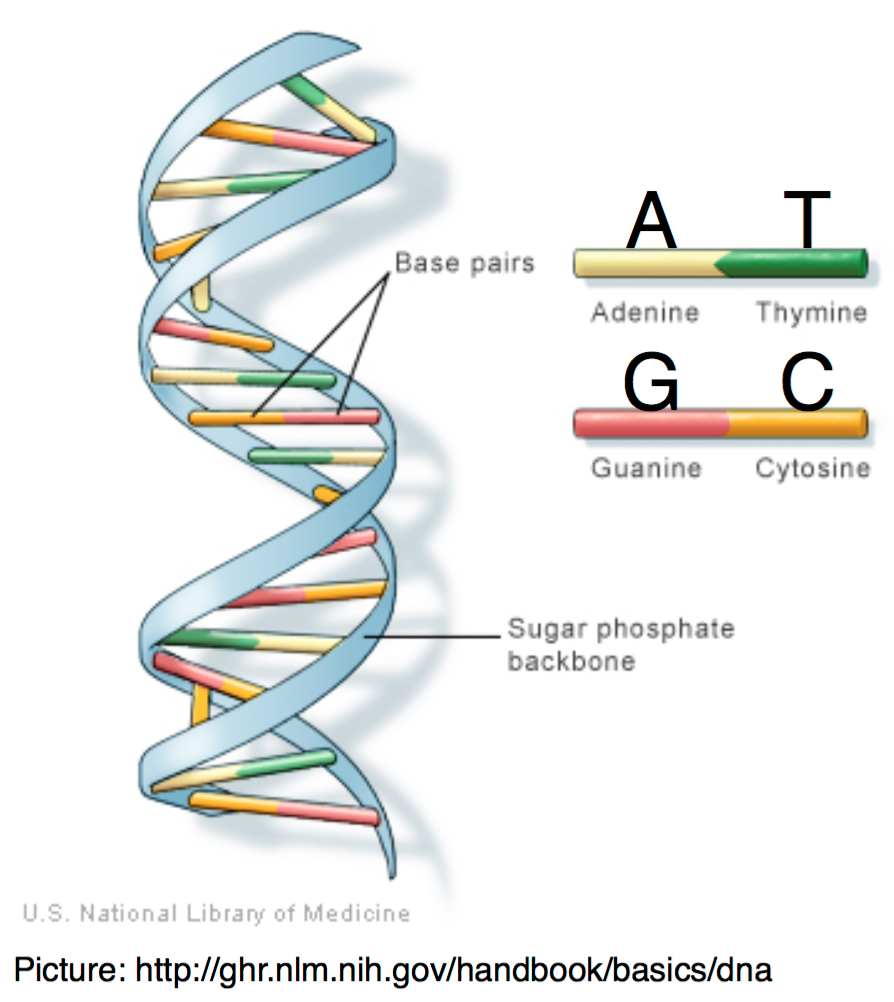
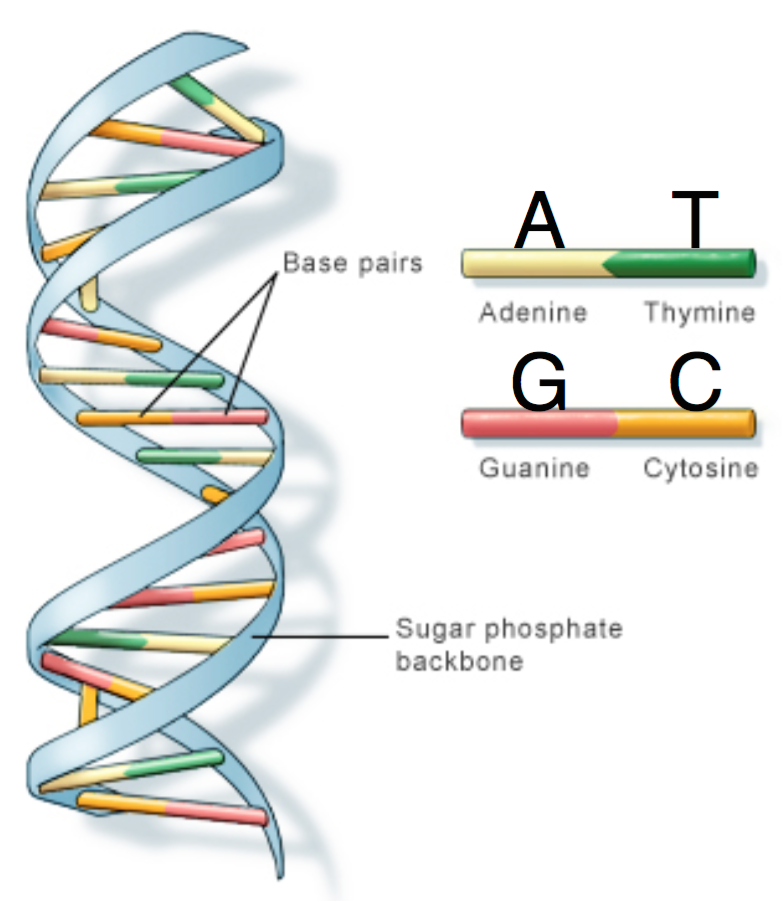
cleaned up mitosis and DNA figures

diff --git a/lectures/lecture2.md b/lectures/lecture2.md
@@ -75,8 +75,8 @@ pairs are known as _complementary pairs_. The structure of DNA is shown
 below.
 
 <div class="fig figcenter fighighlight">
-  <img src="/assets/lecture2/Figure2_DNADoubleHelix.png" width="75%">
-  <div class="figcaption">The DNA double-helix.</div>
+  <img src="/assets/lecture2/Figure2_DNADoubleHelix.png" width="40%">
+  <div class="figcaption">The DNA double-helix. Borrowed from the [Genetics Home Reference](http://ghr.nlm.nih.gov/handbook/basics/dna). </div>
 </div>
 
 A DNA sequence is conventionally written in the 5’ end (head) to
@@ -91,7 +91,7 @@ and its reverse complement strand.
 
 <div class="fig figcenter fighighlight">
   <img src="/assets/lecture2/Figure3_ReverseComplement.png" width="25%">
-  <div class="figcaption">An illustration of DNA complement.</div>
+  <div class="figcaption">An illustration of DNA complement. Borrowed from [Wikipedia](http://en.wikipedia.org/wiki/Mitosis). </div>
 </div>
 
 #### DNA replication
